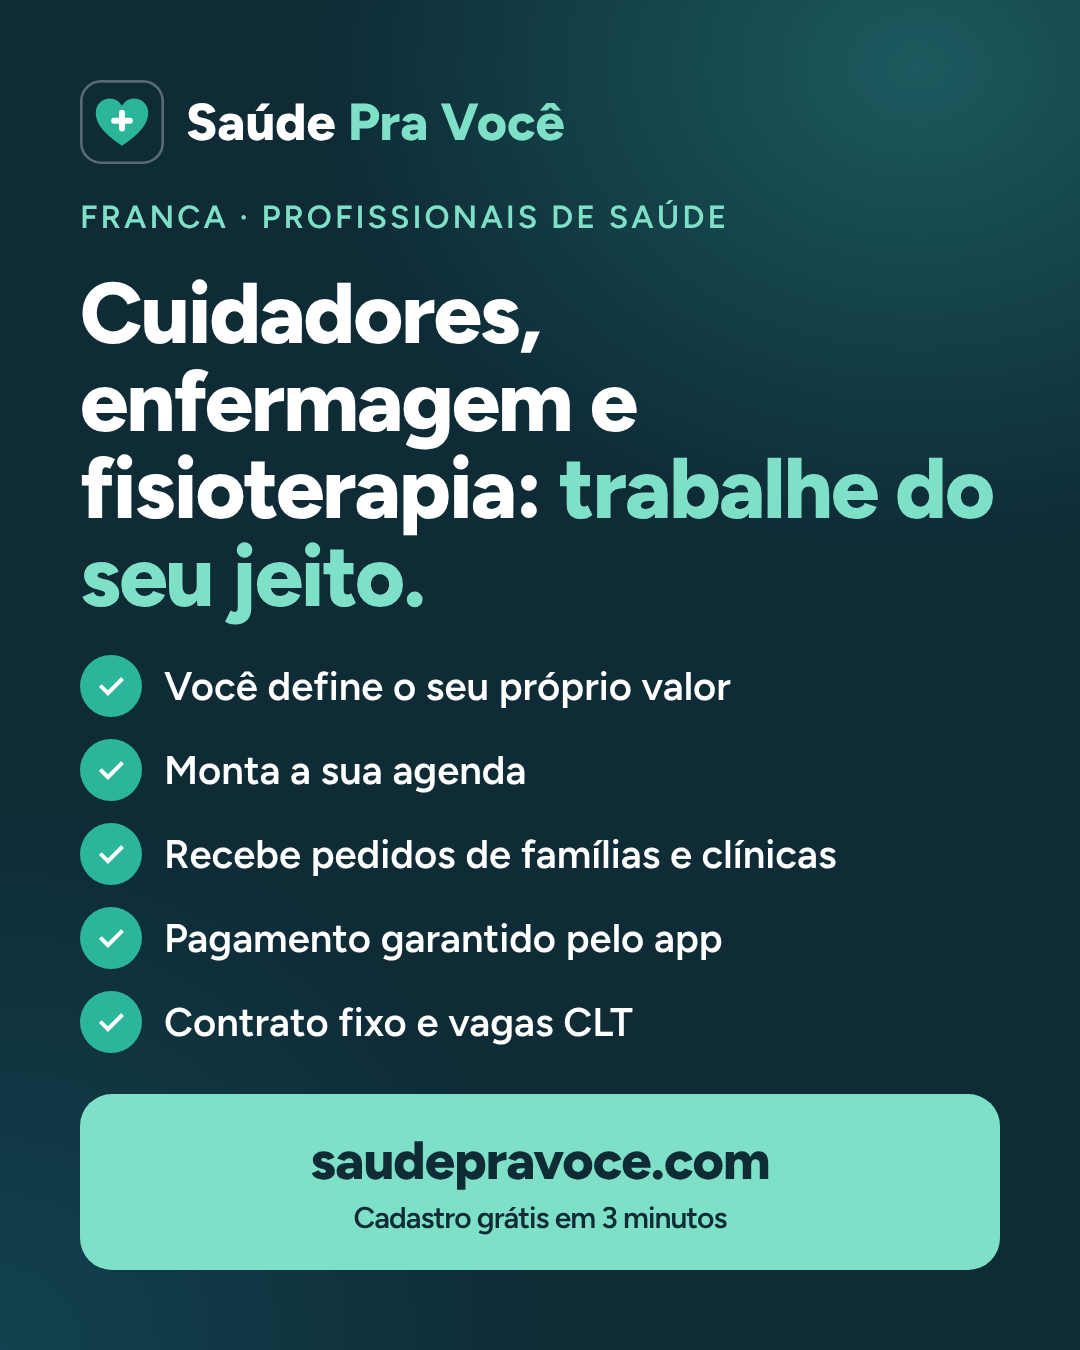
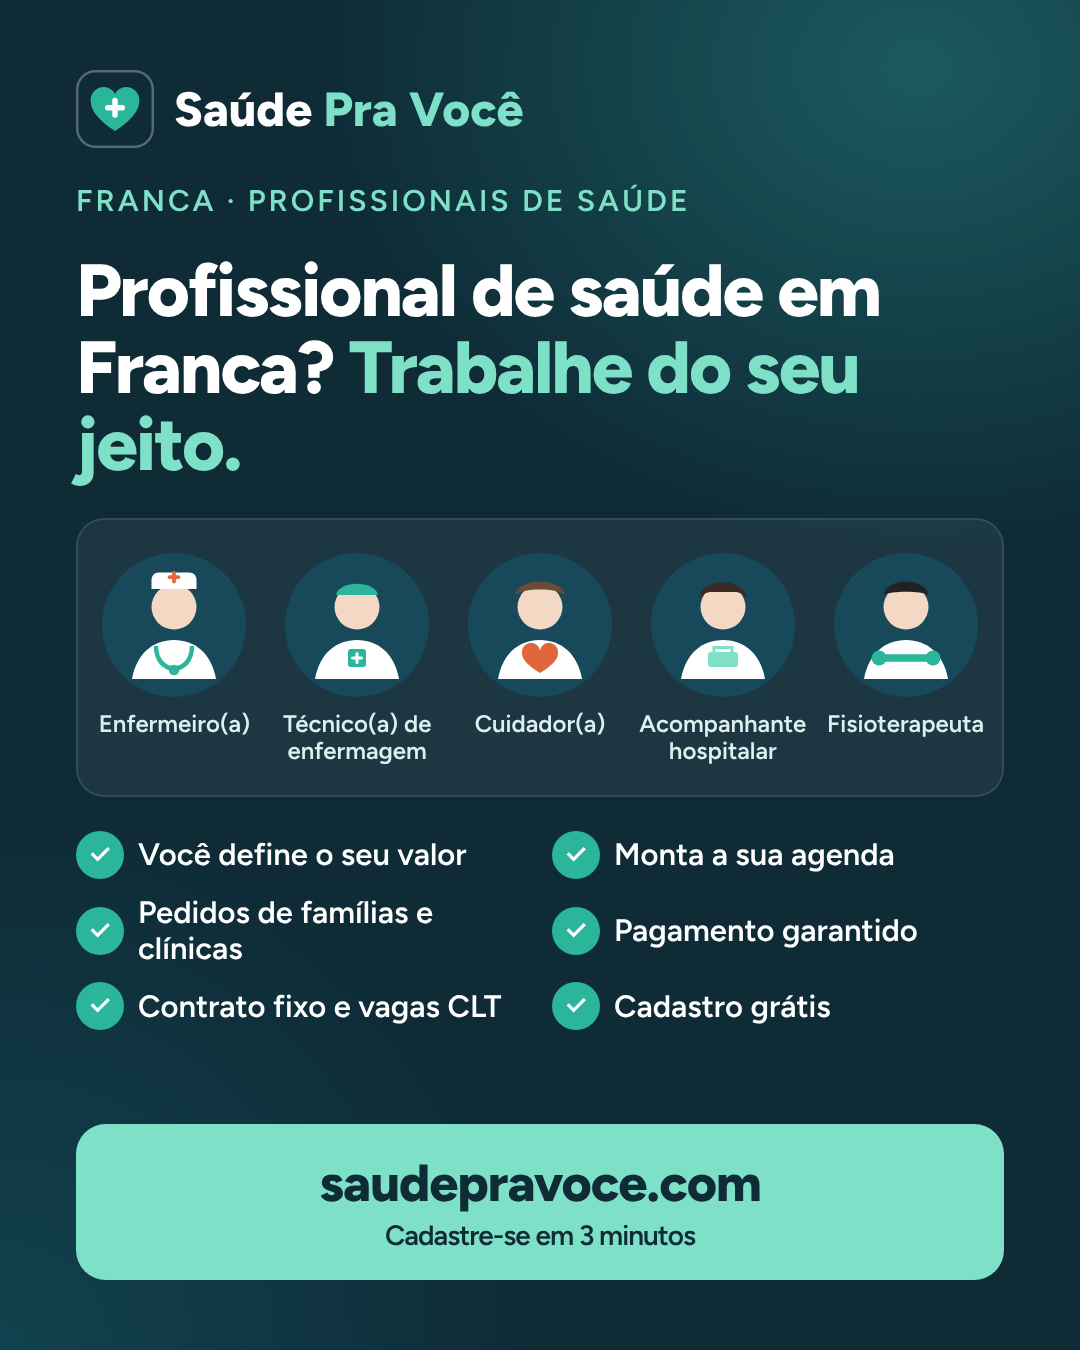
Imagens do convite com os 5 perfis de profissionais, para Franca e Ribeirão Preto
Claude-Session: https://claude.ai/code/session_01TzbgU1ZdxmJkFVDND78ZUM

Changed region(s): [[0.0611, 0.0311, 0.9167, 0.7778], [0.0611, 0.8089, 0.9472, 0.9644]]

diff --git a/public/lib/admin.js b/public/lib/admin.js
@@ -473,7 +473,7 @@
         <p class="small mute">O WhatsApp não permite disparo automático em massa de um número comum (o número é bloqueado). Por isso a campanha é feita em dois caminhos seguros: <b>grupos e Status</b> (um post alcança muita gente) e <b>contatos individuais</b>, um toque por pessoa, com a mensagem já pronta e o link de cadastro rastreado.</p>
         <h3>1. Grupos de Franca e Status</h3>
         <label class="f">Mensagem para grupos (cuidadores, enfermagem, fisioterapia de Franca)<textarea class="in" id="waGrupo" style="min-height:170px">${esc(WA_TXT.grupo)}</textarea></label>
-        <div class="row"><button class="btn btn-sm" data-copia="waGrupo">Copiar mensagem</button><a class="btn btn-sm btn-green" id="waGrupoAbre" target="_blank" rel="noopener">Abrir no WhatsApp e escolher o grupo</a><a class="btn btn-sm btn-ghost" href="/campanha/convite-franca.png" download="convite-saude-pra-voce.png">Baixar imagem do convite</a></div>
+        <div class="row"><button class="btn btn-sm" data-copia="waGrupo">Copiar mensagem</button><a class="btn btn-sm btn-green" id="waGrupoAbre" target="_blank" rel="noopener">Abrir no WhatsApp e escolher o grupo</a><a class="btn btn-sm btn-ghost" href="/campanha/convite-franca.png" download="convite-saude-pra-voce-franca.png">Imagem · Franca</a><a class="btn btn-sm btn-ghost" href="/campanha/convite-ribeirao-preto.png" download="convite-saude-pra-voce-ribeirao-preto.png">Imagem · Ribeirão Preto</a></div>
         <label class="f">Texto para o Status<textarea class="in" id="waStatus" style="min-height:90px">${esc(WA_TXT.status)}</textarea></label>
         <div class="row"><button class="btn btn-sm" data-copia="waStatus">Copiar texto do Status</button></div>
         <h3>2. Contatos individuais</h3>
